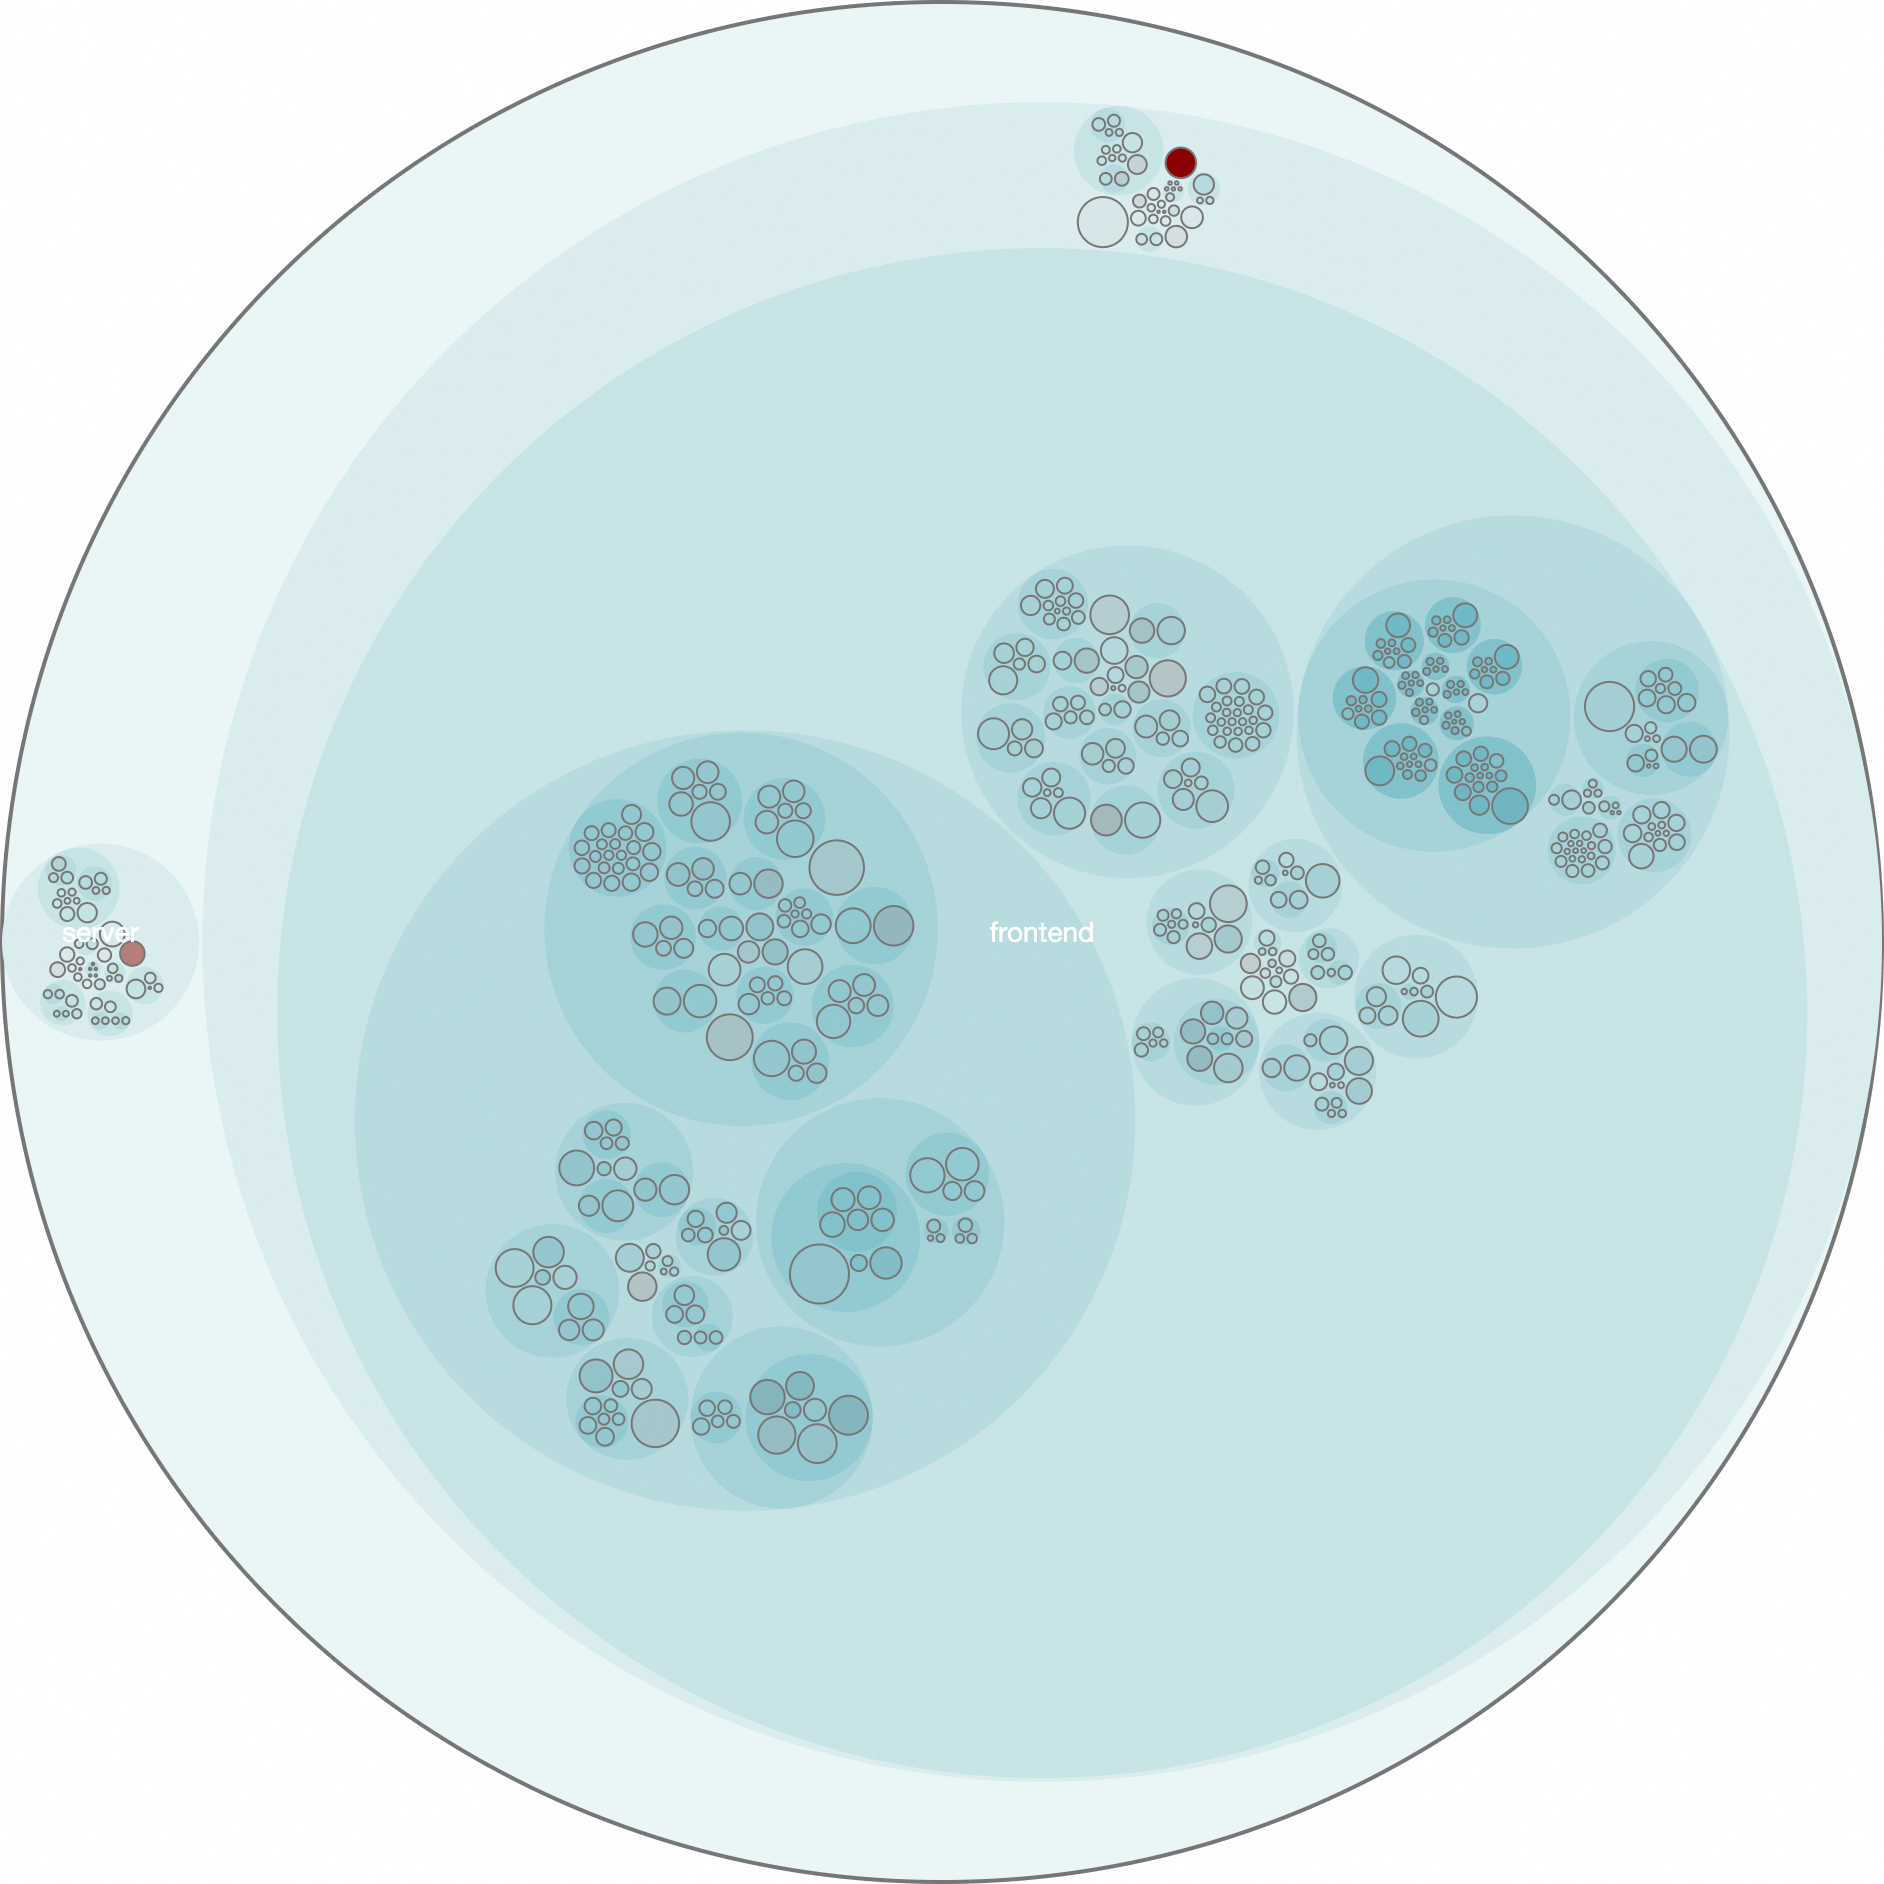
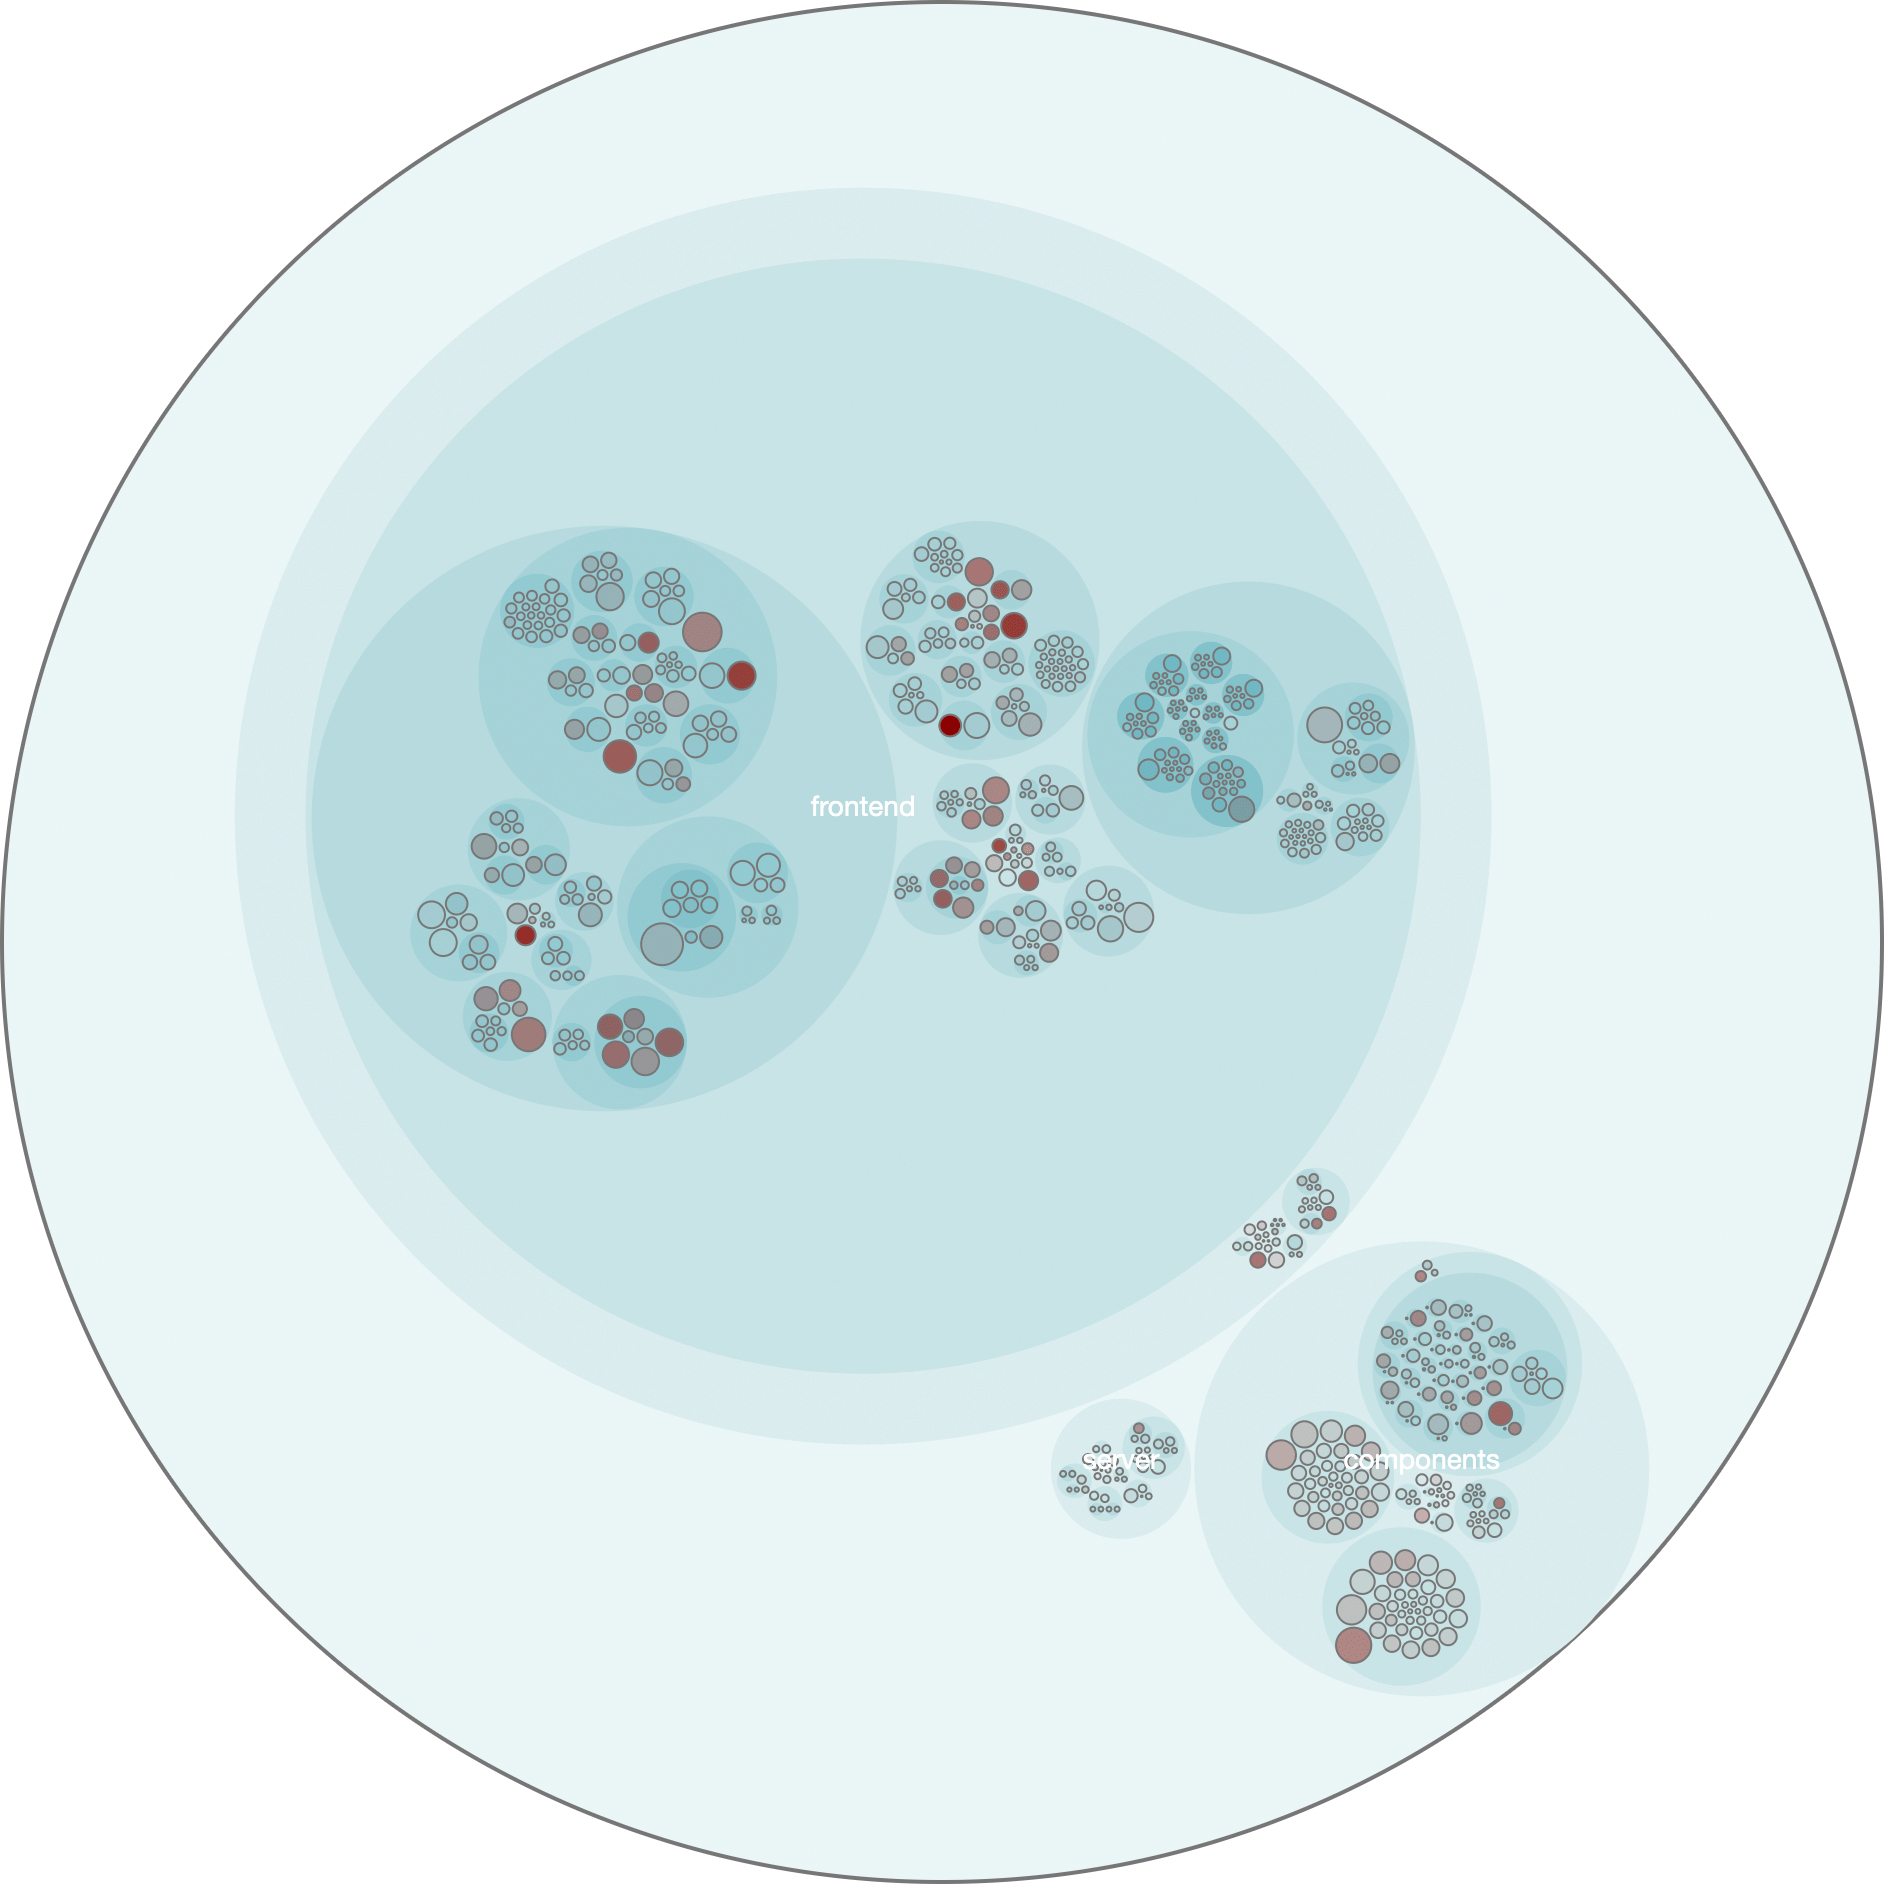
docs(posts): add hospitalrun components to hotspots

diff --git a/_posts/2022-02-21-applied-forensics-hotspots.md b/_posts/2022-02-21-applied-forensics-hotspots.md
@@ -11,7 +11,9 @@ title:  "Applied Software Forensics - Hotspot Analysis for HospitalRun"
   - [Hotspots Overview](#hotspots-overview)
   - [Hotspots of Frontend](#hotspots-of-frontend)
   - [Hotspots of Server](#hotspots-of-server)
+  - [Hotspots of Components](#hotspots-of-components)
 - [Executing a Hotspot Analysis For Individual Repositories](#executing-a-hotspot-analysis-for-individual-repositories)
+  - [Prerequisites](#prerequisites)
   - [Prepare Complexity (LOC) and Effort (Change Frequencies)](#prepare-complexity-loc-and-effort-change-frequencies)
   - [Merge complexity (LOC) and effort](#merge-complexity-loc-and-effort)
   - [Visualize hotspots](#visualize-hotspots)
@@ -22,6 +24,22 @@ title:  "Applied Software Forensics - Hotspot Analysis for HospitalRun"
 ### Results
 
 Let me start with showing the results of the hotspot analysis. You can reproduce these results on your own as described in the next sections.
+
+The following module versions were used to create the hotspot analysis:
+
+- [HospitalRun Frontend v2.0.0-alpha.7 (Nov. 7, 2020)](https://github.com/HospitalRun/hospitalrun-frontend/tree/v2.0.0-alpha.7)
+- [HospitalRun Server v2.0.0-alpha.5 (Nov. 7, 2020)](https://github.com/HospitalRun/hospitalrun-server/tree/v2.0.0-alpha.5)
+- [HospitalRun Components v3.0.3  (Oct. 24, 2020)](https://github.com/HospitalRun/components/tree/v3.0.3) - used by frontend v2.0.0-alpha7.
+
+These tags were associated with the newest versions of frontend and server as of Feb. 21, 2022.
+
+The analysis time period spans one year - from Nov. 7, 2019 up to and including Nov. 7, 2020.
+
+What has been excluded from the analysis?
+
+- `CHANGELOG.md` - is touched by every release tag.
+- `README.md` - is touched frequently but updates are usually directly connected to code changes.
+- `package.json` - a huge number of commits changed this file in order to keep dependencies up to date. The files themselves are rather trivial.
 
 #### Hotspots Overview
 
@@ -35,30 +53,41 @@ Let me start with showing the results of the hotspot analysis. You can reproduce
 
 ![Hotspots of Server](/assets/hospitalrun/hotspots-server.png)
 
+#### Hotspots of Components
+
+![Hotspots of Components](/assets/hospitalrun/hotspots-components.png)
+
 ### Executing a Hotspot Analysis For Individual Repositories
 
-The following commands are used to create a hotspot analysis for
+#### Prerequisites
 
-- [HospitalRun Frontend v2.0.0-alpha.7](https://github.com/HospitalRun/hospitalrun-frontend/tree/v2.0.0-alpha.7)
-- [HospitalRun Server v2.0.0-alpha.5](https://github.com/HospitalRun/hospitalrun-server/tree/v2.0.0-alpha.5)
+Before you can start you need the following tools in a folder:
+
+- Clone [Github: adamtornhill / code-maat](https://github.com/adamtornhill/code-maat) and build the docker image according to the instructions
+- Clone [Github: adamtornhill / maat-scripts](https://github.com/adamtornhill/maat-scripts) and checkout the `python3` branch
+- Download and extract the samples (`sample0.2.zip`) from [Code as a Crime Scene: The Tools](https://adamtornhill.com/code/crimescenetools.htm)
+
+In the following I have these tools in `$HOME/source/learn/your-code-as-a-crime-scene`.
 
 #### Prepare Complexity (LOC) and Effort (Change Frequencies)
 
 ```sh
-# We assume that the frontend code is in a directory named frontend and the server code is in a directory named server.
+# Prepare target folder
+mkdir analysis
+echo "package-lock.json" > analysis/cloc-exclude-files.txt
+echo "package.json" >> analysis/cloc-exclude-files.txt
+echo "CHANGELOG.md" >> analysis/cloc-exclude-files.txt
+echo "README.md" >> analysis/cloc-exclude-files.txt
+
 # Select which module you want to analyze:
 export SUT=server
 
-# Prepare target folder
-mkdir analysis
-echo "package-lock.json" > cloc-exclude-files.txt
-
 # Collect git history
 cd "$SUT"
-git log --pretty=format:'[%h] %an %ad %s' --date=short --numstat --after=2020-01-01 > "../analysis/${SUT}_evo.log"
+git log --pretty=format:'[%h] %an %ad %s' --date=short --numstat --after=2019-11-06 --before=2020-11-08 > "../analysis/${SUT}_evo.log"
 
 # Count lines of code
-cloc ./ --by-file --csv --exclude-dir=node_modules,bin --exclude-list-file=../analysis/cloc-exclude-files.txt --quiet "--report-file=../analysis/${SUT}_lines.csv"
+cloc ./ --by-file --csv --exclude-dir=node_modules,bin,.nyc_output --exclude-list-file=../analysis/cloc-exclude-files.txt --quiet "--report-file=../analysis/${SUT}_lines.csv"
 # Note: For me this command showed errors for files named acorn-loose.js, acorn-loose.mjs, acorn-loose.es.js
 
 # Inspect the data
@@ -66,7 +95,10 @@ cd ../analysis
 docker run -v "$PWD":/data -it code-maat-app -l "/data/${SUT}_evo.log" -c git -a summary
 
 # Collect change frequencies
-docker run -v "$PWD":/data -it code-maat-app -l "/data/${SUT}_evo.log" -c git -a revisions > "../analysis/${SUT}_freqs.csv"
+docker run -v "$PWD":/data -it code-maat-app -l "/data/${SUT}_evo.log" -c git -a revisions > "${SUT}_freqs.csv"
+
+# Remove excluded files from change frequencies
+for FILE in $(cat cloc-exclude-files.txt); do sed -i '' "/$FILE,/d" "${SUT}_freqs.csv"; done
 ```
 
 #### Merge complexity (LOC) and effort
@@ -81,7 +113,7 @@ python "$MAAT_SCRIPTS/merge/merge_comp_freqs.py" "${SUT}_freqs.csv" "${SUT}_line
 
 ```sh
 # Set the folder containing Adam Tornhill's sample zip (extracted) from https://adamtornhill.com/code/crimescenetools.htm
-export MAAT_SAMPLE=/Users/stefan/source/learn/your-code-as-a-crime-scene/sample
+export MAAT_SAMPLE=$HOME/source/learn/your-code-as-a-crime-scene/sample
 python "$MAAT_SCRIPTS/transform/csv_as_enclosure_json.py" --structure "${SUT}_lines.csv" --weights "${SUT}_freqs.csv" --weightcolumn 1 > "${SUT}_hotspot_proto.json"
 mkdir d3
 cp "$MAAT_SAMPLE/hibernate/d3/d3.min.js" "$MAAT_SAMPLE/hibernate/d3/LICENSE" ./d3/
@@ -100,14 +132,14 @@ In the previous section we have created multiple git history files named `*_evo.
 
 ```sh
 # Combine the analysis results into a single file
+# and concatenate the lines of code into a single file
 echo "entity,n-revs" > all_freqs.csv
-awk 'FNR > 1 {print "frontend/" $0}' frontend_freqs.csv >> all_freqs.csv
-awk 'FNR > 1 {print "server/" $0}' server_freqs.csv >> all_freqs.csv
-
-# Concatenate the lines of code into a single file
 echo "language,filename,blank,comment,code" > all_lines.csv
-ghead -n-1 frontend_lines.csv | awk -F "," 'FNR > 1 {path=$2; sub(/\.\//, "frontend/", path); print $1 "," path "," $3 "," $4 "," $5}' >> all_lines.csv
-ghead -n-1 server_lines.csv | awk -F "," 'FNR > 1 {path=$2; sub(/\.\//, "server/", path); print $1 "," path "," $3 "," $4 "," $5}' >> all_lines.csv
+
+for SUT in frontend server components; do \
+  awk "FNR > 1 {print \"$SUT/\" \$0}" ${SUT}_freqs.csv >> all_freqs.csv; \
+  ghead -n-1 ${SUT}_lines.csv | awk -F "," "FNR > 1 {path=\$2; sub(/\\.\\//, \"$SUT/\", path); print \$1 \",\" path \",\" \$3 \",\" \$4 \",\" \$5}" >> all_lines.csv; \
+done
 ```
 
 Now `export SUT=all` and apply the code from sections [Merge complexity (LOC) and effort](#merge-complexity-loc-and-effort) and [Visualize hotspots](#visualize-hotspots) to `all_freqs.csv` and `all_lines.csv`.
